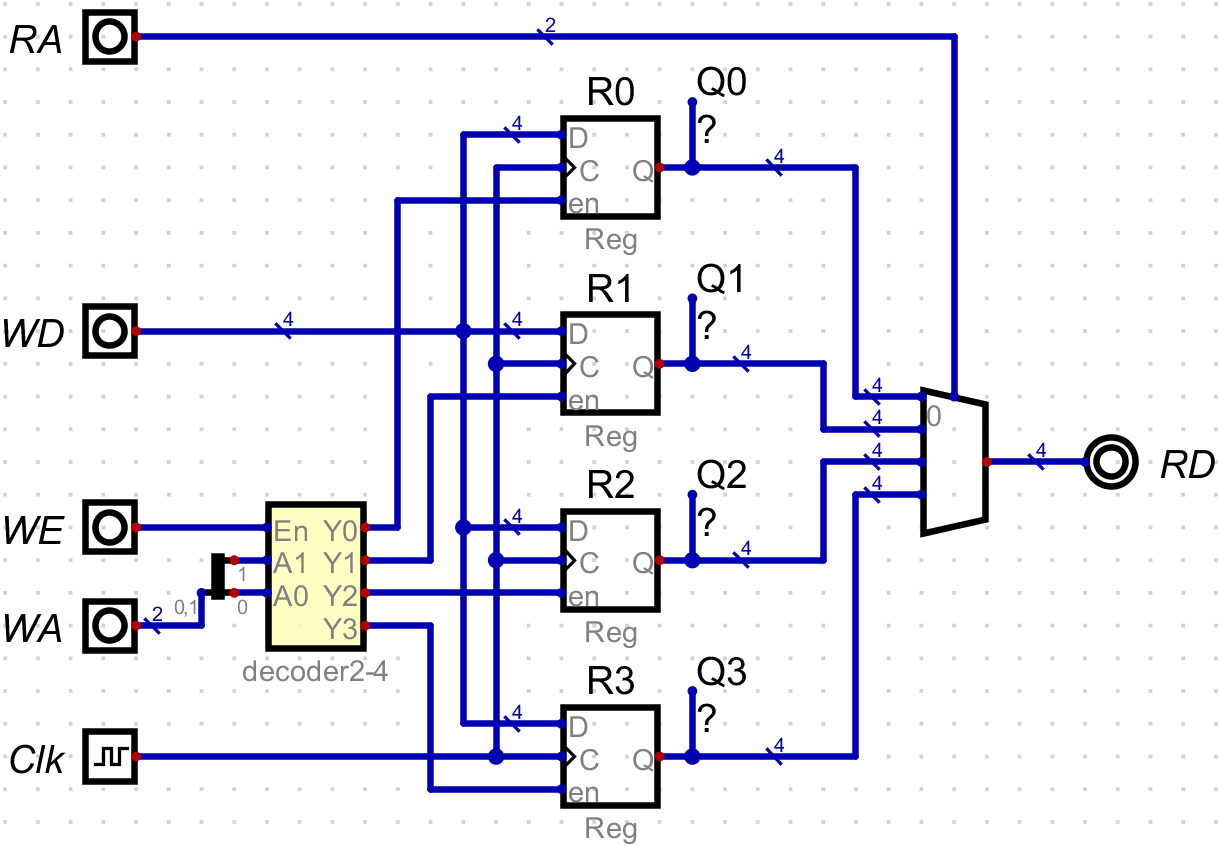
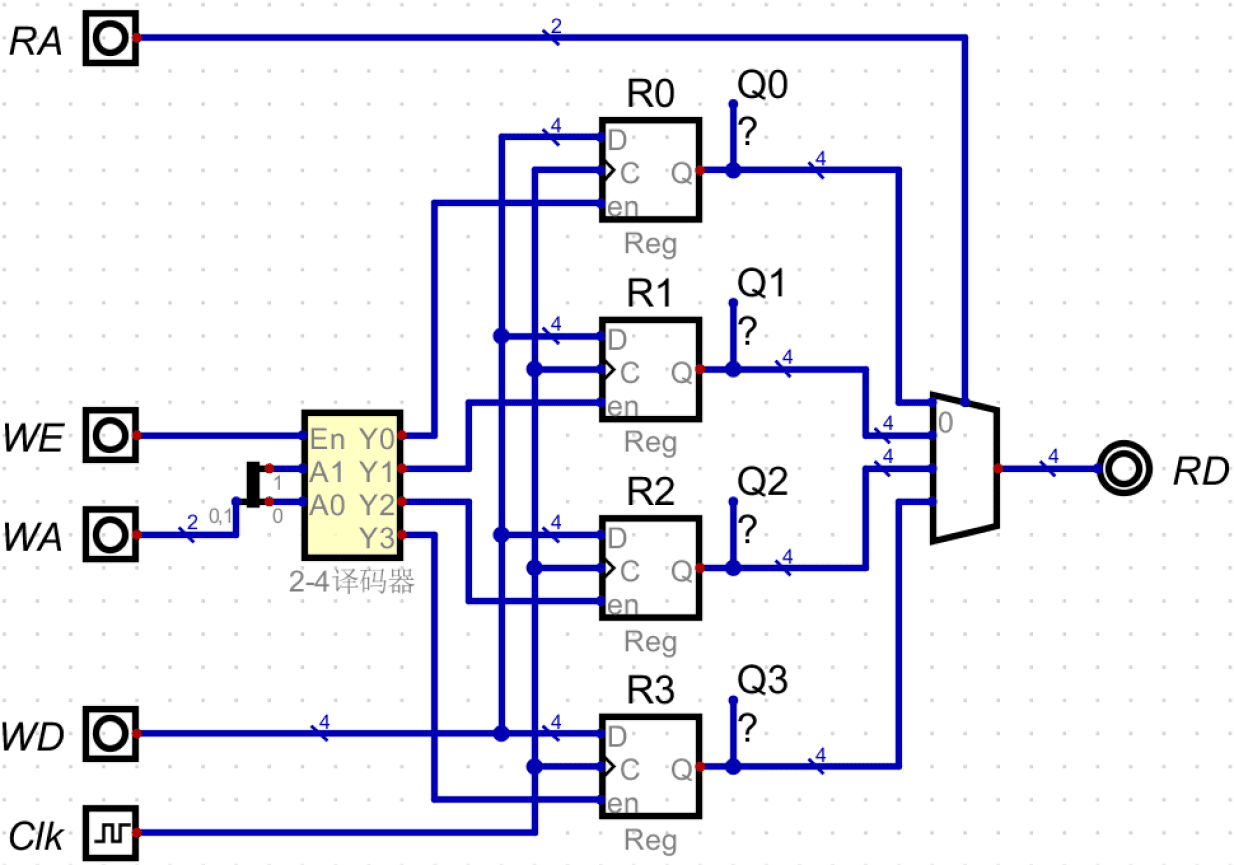
2026春季学期，v1.4终版

diff --git a/site/digisimlab/lab/dp-register_file.html b/site/digisimlab/lab/dp-register_file.html
@@ -226,7 +226,7 @@
 <p>理解寄存器堆的电路结构和功能特性。</p>
 </li>
 <li>
-<p>学会使用Digital仿真软件的层次化设计方法。</p>
+<p>巩固Digital仿真软件的层次化设计方法。</p>
 </li>
 <li>
 <p>学会使用Digital仿真软件的探测器、分线器、常量等组件。</p>
@@ -258,7 +258,8 @@
 <a href="#fig-rf-2port">图 1</a>寄存器堆有4个寄存器，这4个寄存器共用一个数据输入端（WD），时钟输入端（Clk）也是共用的，但这并不意味着4个寄存器同时写入相同的数据；相反，一次只能写入其中一个寄存器，这是由寄存器的使能端（en）控制的。
 4个寄存器的使能端（en）分别连接到2-4译码器的4个输出Y0～Y3，从<a href="bl-decoder.html" class="xref page">译码器实验</a>可知，Y0～Y3最多只可能有一个为1，也就是最多只有一个寄存器被允许写入。写入哪个寄存器由2-4译码器的输入端A1、A0即寄存器堆的写地址WA决定。
 2-4译码器的En作为寄存器堆的写使能（WE），起到一个总体控制的作用。若WE=0，Y0～Y3均为0，任何一个寄存器都不会被写入；只有当WE=1时，才会由WA选择一个寄存器被允许写入。
-此时，若Clk端输入一个时钟上升沿，WD端的输入数据将会被存储到指定的寄存器，同时反映在该寄存器的Q端。</p>
+此时，若Clk端输入一个时钟上升沿，WD端的输入数据将会被存储到指定的寄存器，同时反映在该寄存器的Q端。
+也就是说，寄存器内容的改变仅发生在时钟上升沿到来的瞬间，故称作<strong>同步写</strong>。</p>
 </div>
 </div>
 <div class="sect2">
@@ -268,7 +269,7 @@
 寄存器堆内部有多个寄存器，共用一个读数据端口（RD），因此需要选择其中一个寄存器，将它的值输出到RD端口，即“读出”操作。
 由<a href="#fig-rf-2port">图 1</a>可见，4个寄存器的Q端连接到4选1多路器的4个输入，多路器的输出连接到RD端口；RA作为多路器的选择信号，决定哪一个寄存器的Q输出到RD。
 和写入不同，读出并没有使能控制，在任何时刻都会有一个寄存器的值被读出。
-读出也不受时钟控制，只要RA改变，立刻改变选择读出的寄存器，无需等待时钟上升沿到来。</p>
+读出也不受时钟控制，只要RA改变，立刻改变选择读出的寄存器，无需等待时钟上升沿到来，因此称作<strong>异步读</strong>。</p>
 </div>
 <div class="paragraph">
 <p>可见，<strong>寄存器堆的读写操作是独立的</strong>。在写入一个寄存器的时候，可以读出另一个寄存器。如果要写入的寄存器地址和读地址相同，在时钟上升沿到来之前，读出的是该寄存器之前存储的值；时钟上升沿之后，读出新写入的值。</p>
@@ -364,7 +365,7 @@
 </td>
 <td class="content">
 <div class="paragraph">
-<p>由于寄存器的输出不是电路的输出，默认不会出现在<a href="../ds-getting-started.html#bm-show-measure" class="xref page">仿真结果记录</a>中。
+<p>由于寄存器的输出未直接连接输出组件，默认不会出现在<a href="../ds-getting-started.html#bm-show-measure" class="xref page">仿真结果记录</a>中。
 为便于观察、记录寄存器的值，在寄存器的Q输出端放置了<a href="../ds-other-useful.html#bm-probe" class="xref page">探测器组件</a>，该组件的介绍见<a href="../ds-other-useful.html" class="xref page">几个有用的组件</a>。
 另一种方法是设置寄存器组件的<a href="../ds-sim-dff.html#bm-use-as-measure" class="xref page">「作为测量值」属性</a>。</p>
 </div>
@@ -437,15 +438,16 @@
 <h3 id="_验证任务"><a class="anchor" href="#_验证任务"></a>验证任务</h3>
 <div class="paragraph">
 <p>通过仿真验证寄存器堆的功能，并保存仿真过程数据文件。
-为了能够在数据文件中记录每个寄存器的值，电路设计时应在每个寄存器的Q输出端连接探测器组件（默认已勾选「在测量图中显示」属性），或者勾选寄存器组件的「作为测量值」（Use as measurement value）属性。</p>
+为了能够在数据文件中记录每个寄存器的值，电路设计时应勾选寄存器组件的<a href="../ds-sim-dff.html#bm-use-as-measure" class="xref page">「作为测量值」属性</a>，或者在每个寄存器的Q输出端连接<a href="../ds-other-useful.html#bm-probe" class="xref page">探测器组件</a>，如参考设计<a href="#fig-rf-2port-sim">图 3</a>所示。</p>
 </div>
 <div class="olist arabic">
 <ol class="arabic">
 <li>
 <p><strong>数据写入寄存器堆</strong></p>
-<div class="paragraph">
-<p>尝试将不同的非零数据存入R0、R1、R2、R3寄存器。</p>
-</div>
+<div class="olist loweralpha">
+<ol class="loweralpha" type="a">
+<li>
+<p>尝试将非零数据存入R0、R1、R2、R3寄存器。</p>
 <div class="admonitionblock caution">
 <table>
 <tr>
@@ -454,9 +456,8 @@
 </td>
 <td class="content">
 <div class="paragraph">
-<p>写入的数据应有助于检验寄存器堆的功能和特性。
-例如，如果使用“1”作为写入数据，则无法测试寄存器堆的数据位数是不是4位。
-再如，如果4个寄存器写入相同的数据，则无法分辨地址译码是否正确。</p>
+<p>写入的数据应有助于检验寄存器堆电路的正确性。
+例如，4个寄存器应写入不相同的数据，以便检验地址译码是否正确；写入的数据应大于7，以便测试寄存器堆的数据位数。</p>
 </div>
 </td>
 </tr>
@@ -464,9 +465,16 @@
 </div>
 </li>
 <li>
+<p>验证写使能无效时数据不会被写入。</p>
+</li>
+</ol>
+</div>
+</li>
+<li>
 <p><strong>从寄存器堆读出数据</strong></p>
 <div class="paragraph">
-<p>同时从RD1和RD2读出不同寄存器的值。</p>
+<p>从RD1和RD2读出寄存器的值，与写入值比较是否一致。
+并且可以同时从RD1和RD2读出不同寄存器的值。</p>
 </div>
 <div class="admonitionblock tip">
 <table>
@@ -475,7 +483,7 @@
 <i class="fa icon-tip" title="提示"></i>
 </td>
 <td class="content">
-需特别注意R0是否恒为0。
+需特别注意检验R0是否恒为0。
 </td>
 </tr>
 </table>

diff --git a/site/digisimlab/lab/op-add_sub_operation.html b/site/digisimlab/lab/op-add_sub_operation.html
@@ -366,21 +366,21 @@ C0＝1，故<span class="image"><img src="_images/op-add_sub-sub.png" alt="op ad
 <p>加法器组件位于「组件 ➤ 运算器 ➤ 加法器」（Components ➤ Arithmetic ➤ Adder）。</p>
 </li>
 <li>
-<p><a href="#fig-21">图 1</a>原理图的X、Y都是4位的，所以异或运算用了4个1位的异或门；而<a href="#fig-op-add_sub">图 2</a>为了画图的简洁，使用1个4位的异或门。但控制信号M仍然是1位的，因此需要用「符号扩展器」（Sign extender）组件扩展为4位。</p>
+<p><a href="#fig-21">图 1</a>原理图的X、Y都是4位的，所以异或运算用了4个1位的异或门；而<a href="#fig-op-add_sub">图 2</a>为了画图的简洁，使用1个4位的异或门。
+为了将1位的控制输入M连接到异或门的4位数据输入，使用了「符号扩展器」（Sign extender）组件；该组件「输入位宽」为<code>1</code>，「输出位宽」为<code>4</code>。</p>
 </li>
 <li>
-<p>为便于观察异或门输出的数据，添加了一个「探测器」（Probe）组件（图中显示问号的那个）。</p>
+<p>异或门输出与加法器b输入端之间导线上连接了一个形如问号的组件，其为「探测器」（Probe）组件，便于仿真时观察该导线上传输的数据。</p>
 </li>
 <li>
-<p><a href="#fig-op-add_sub">图 2</a>未给出溢出检测电路。根据上面介绍的溢出检测方法，可以在Digital仿真软件中用如下表达式生成溢出检测电路。</p>
+<p><a href="#fig-op-add_sub">图 2</a>未给出溢出检测电路。根据上面介绍的溢出检测方法，可以在Digital仿真软件中用如下表达式生成溢出检测电路，然后将生成的溢出检测电路作为子电路添加到加减电路中。</p>
 <div class="listingblock">
 <div class="content">
 <pre class="highlightjs highlight"><code class="language-none hljs">let OF = As &amp; Bs &amp; ~Fs | ~As &amp; ~Bs &amp; Fs</code></pre>
 </div>
 </div>
 <div class="paragraph">
-<p>然后将生成的溢出检测电路作为子电路添加到加减电路中。
-<a href="#fig-op-add_sub">图 2</a>为了从4位数据中抽取最高位作为符号位，使用了3个「分裂器」（Splitter）组件；将这3个组件的输出端与溢出检测电路的相应输入端连接。</p>
+<p><a href="#fig-op-add_sub">图 2</a>为了从4位数据中抽取最高位作为符号位，使用了3个「分线器」（Splitter）组件。这3个组件的输入端分别连接加法器a、b、s端口，因此它们的「输入分割」属性值为<code>4</code>；输出端是a、b、s的符号位，作为溢出检测电路的输入，故「输出分割」属性值为<code>3-3</code>。</p>
 </div>
 </li>
 </ol>

diff --git a/site/digisimlab/ds-generate-circuit.html b/site/digisimlab/ds-generate-circuit.html
@@ -261,8 +261,35 @@
 <tbody>
 <tr>
 <td class="tableblock halign-left valign-top"><p class="tableblock">0</p></td>
-<td class="tableblock halign-left valign-top"><p class="tableblock">X</p></td>
-<td class="tableblock halign-left valign-top"><p class="tableblock">X</p></td>
+<td class="tableblock halign-left valign-top"><p class="tableblock">0</p></td>
+<td class="tableblock halign-left valign-top"><p class="tableblock">0</p></td>
+<td class="tableblock halign-left valign-top"><p class="tableblock">0</p></td>
+<td class="tableblock halign-left valign-top"><p class="tableblock">0</p></td>
+<td class="tableblock halign-left valign-top"><p class="tableblock">0</p></td>
+<td class="tableblock halign-left valign-top"><p class="tableblock">0</p></td>
+</tr>
+<tr>
+<td class="tableblock halign-left valign-top"><p class="tableblock">0</p></td>
+<td class="tableblock halign-left valign-top"><p class="tableblock">0</p></td>
+<td class="tableblock halign-left valign-top"><p class="tableblock">1</p></td>
+<td class="tableblock halign-left valign-top"><p class="tableblock">0</p></td>
+<td class="tableblock halign-left valign-top"><p class="tableblock">0</p></td>
+<td class="tableblock halign-left valign-top"><p class="tableblock">0</p></td>
+<td class="tableblock halign-left valign-top"><p class="tableblock">0</p></td>
+</tr>
+<tr>
+<td class="tableblock halign-left valign-top"><p class="tableblock">0</p></td>
+<td class="tableblock halign-left valign-top"><p class="tableblock">1</p></td>
+<td class="tableblock halign-left valign-top"><p class="tableblock">0</p></td>
+<td class="tableblock halign-left valign-top"><p class="tableblock">0</p></td>
+<td class="tableblock halign-left valign-top"><p class="tableblock">0</p></td>
+<td class="tableblock halign-left valign-top"><p class="tableblock">0</p></td>
+<td class="tableblock halign-left valign-top"><p class="tableblock">0</p></td>
+</tr>
+<tr>
+<td class="tableblock halign-left valign-top"><p class="tableblock">0</p></td>
+<td class="tableblock halign-left valign-top"><p class="tableblock">1</p></td>
+<td class="tableblock halign-left valign-top"><p class="tableblock">1</p></td>
 <td class="tableblock halign-left valign-top"><p class="tableblock">0</p></td>
 <td class="tableblock halign-left valign-top"><p class="tableblock">0</p></td>
 <td class="tableblock halign-left valign-top"><p class="tableblock">0</p></td>

diff --git a/site/digisimlab/ds-other-useful.html b/site/digisimlab/ds-other-useful.html
@@ -268,9 +268,9 @@
 </table>
 </div>
 <div class="paragraph">
-<p>分线器是指将一根多位的导线分成几个部分，如<a href="#fig-ds-splitter-1">图 1</a>(a)所示，输入是一根6位的导线，输出是三根2位的导线。
-并线器是指将几根导线合并为一根，如<a href="#fig-ds-splitter-1">图 1</a>(b)所示，输入是两根3位的导线，输出是一根6位的导线。
-更为灵活的是，输入、输出可以同时有多根导线，如<a href="#fig-ds-splitter-1">图 1</a>(c)所示，输入是两根3位的导线，输出是三根2位的导线。</p>
+<p>分线器是指将一股多位的导线分成几个部分，如<a href="#fig-ds-splitter-1">图 1</a>(a)所示，输入是一股6位的导线，输出是三股2位的导线。
+并线器是指将几股导线合并为一股，如<a href="#fig-ds-splitter-1">图 1</a>(b)所示，输入是两股3位的导线，输出是一股6位的导线。
+更为灵活的是，输入、输出可以同时有多股导线，如<a href="#fig-ds-splitter-1">图 1</a>(c)所示，输入是两股3位的导线，输出是三股2位的导线。</p>
 </div>
 <div id="fig-ds-splitter-1" class="imageblock">
 <div class="content">
@@ -325,7 +325,7 @@
 <div class="sect2">
 <h3 id="_以位号表示分割"><a class="anchor" href="#_以位号表示分割"></a>以位号表示分割</h3>
 <div class="paragraph">
-<p>可以通过指定每一根导线的位号来决定输入或输出的分割。
+<p>可以通过指定每一股导线的位号来决定输入或输出的分割。
 以<a href="#fig-ds-splitter-1">图 1</a>(a)为例，用位号表示的分割属性设置如<a href="#tab-ds-splitter-2">表 2</a>所示。<a href="#fig-ds-splitter-1">图 1</a>(b)(c)也类似。</p>
 </div>
 <table id="tab-ds-splitter-2" class="tableblock frame-all grid-all stretch">

diff --git a/site/digisimlab/lab/bl-register.html b/site/digisimlab/lab/bl-register.html
@@ -235,6 +235,8 @@
 <div class="sect1">
 <h2 id="_实验原理"><a class="anchor" href="#_实验原理"></a>实验原理</h2>
 <div class="sectionbody">
+<div class="sect2">
+<h3 id="_d触发器"><a class="anchor" href="#_d触发器"></a>D触发器</h3>
 <div class="paragraph">
 <p>触发器（Flip-Flop）是一种基本的时序逻辑电路，它具有两个稳定状态，可以存储1位二进制信息，并且在外部时钟信号的控制下，根据输入数据来改变其存储的状态。
 常见的触发器有SR触发器、JK触发器、D触发器等。其中D触发器（D type Flip-Flop）在计算机电路中最为常用。
@@ -258,6 +260,9 @@ D触发器通常包含以下几个端口。</p>
 </dd>
 </dl>
 </div>
+</div>
+<div class="sect2">
+<h3 id="_寄存器"><a class="anchor" href="#_寄存器"></a>寄存器</h3>
 <div class="paragraph">
 <p>在计算机中，用于保存数据的电路元件通常称为<strong>寄存器</strong>。一般而言，D触发器与寄存器没有本质区别，例如一个8位数据寄存器可由8个D触发器构成；从应用的角度，“寄存器”这个名称更为普通。
 而在Digital仿真软件中，D触发器和寄存器是两种组件，端口略有不同。
@@ -273,6 +278,7 @@ D触发器通常包含以下几个端口。</p>
 </div>
 <div class="paragraph">
 <p>数据寄存器将应用于后面的<a href="dp-register_file.html" class="xref page">寄存器堆实验</a>。</p>
+</div>
 </div>
 </div>
 </div>

diff --git a/site/digisimlab/lab/bl-decoder.html b/site/digisimlab/lab/bl-decoder.html
@@ -272,6 +272,20 @@
 <div class="paragraph">
 <p><a href="#fig-bl-decoder-1">图 1</a>的Address端口使用一个2位的输入组件，而生成的2-4译码器的A1、A0是两个1位的输入端口，因此用<a href="../ds-other-useful.html#bm-splitter" class="xref page">分线器组件</a>将2位的Addrress拆分为两个1位的导线，再连接到译码器的A1、A0。分线器组件的介绍见<a href="../ds-other-useful.html" class="xref page">几个有用的组件</a>。</p>
 </div>
+<div class="admonitionblock tip">
+<table>
+<tr>
+<td class="icon">
+<i class="fa icon-tip" title="提示"></i>
+</td>
+<td class="content">
+<div class="paragraph">
+<p><a href="../ds-other-useful.html#bm-splitter" class="xref page">分线器组件</a>位于菜单「组件 ➤ 导线 ➤ 分裂器/合并器」，添加该组件后修改属性：「输入分割」为<code>2</code>，「输出分割」为<code>1,1</code>。注意连接时，分线器的输出端子“1”、“0”分别对应2-4译码器的“A1”、“A0”端口，必要时可勾选「镜像」属性调整分线器的输出端子的顺序。</p>
+</div>
+</td>
+</tr>
+</table>
+</div>
 </li>
 <li>
 <p><strong>电路测试</strong></p>

diff --git a/site/digisimlab/ds-getting-started.html b/site/digisimlab/ds-getting-started.html
@@ -359,7 +359,7 @@
 </div>
 </div>
 <div class="sect1">
-<h2 id="_数据位宽"><a class="anchor" href="#_数据位宽"></a>数据位宽</h2>
+<h2 id="bm-data-width"><a class="anchor" href="#bm-data-width"></a>数据位宽</h2>
 <div class="sectionbody">
 <div class="sect2">
 <h3 id="_数据位数属性"><a class="anchor" href="#_数据位数属性"></a>「数据位数」属性</h3>
